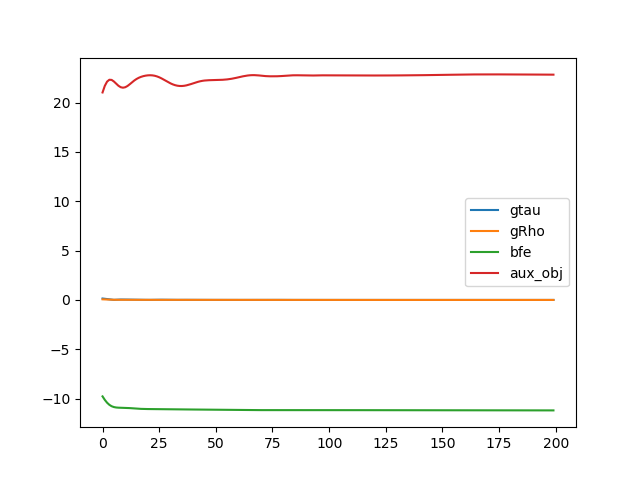
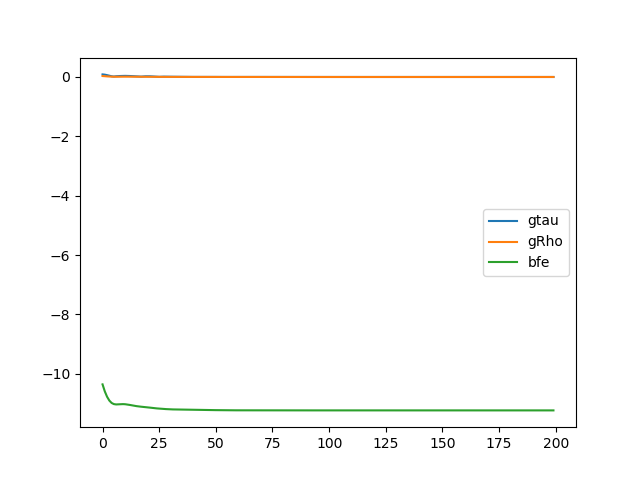
no longer plot aux_obj (not informative, since it's not really a true objective function (just a tf expression whose gradient should approximate the bfe's) which can increase/decrease); increasing K in discrete_mln_test seems to get answers that better match EPBP; lowering lr in hybrid_mln_test seem

diff --git a/osi/OneShot.py b/osi/OneShot.py
@@ -20,7 +20,7 @@ class OneShot:
 
     def __init__(self, g, K, T, seed=None):
         """
-        Define symbolic BFE and auxiliary objective for tensorflow, given a factor graph.
+        Define symbolic BFE and auxiliary objective expression to be optimized by tensorflow, given a factor graph.
         We'll use the one default tensorflow computation graph; to make sure we don't redefine it, everytime it'll
         be cleared/reset whenever a new instance of OneShot is created.
         :param g: a grounded graph corresponding to a plain old MLN; its factors must have .log_potential_fun callable
@@ -143,7 +143,7 @@ class OneShot:
         grads_update = optimizer.apply_gradients(grads_and_vars)
 
         vnames = ['g' + v.name.split(':')[0] for v in trainable_params]
-        record = {n: [] for n in vnames + ['bfe', 'aux_obj']}
+        record = {n: [] for n in vnames + ['bfe']}
 
         if not tf_session:
             sess = tf.Session()  # session configs maybe
@@ -152,7 +152,7 @@ class OneShot:
 
         sess.run(tf.global_variables_initializer())
         for it in range(its):
-            bfe_, aux_obj_, grads_and_vars_, _ = sess.run([bfe, aux_obj, grads_and_vars, grads_update])
+            bfe_, grads_and_vars_, _ = sess.run([bfe, grads_and_vars, grads_update])
             sess.run(clip_op)  # does nothing if no cont nodes
             avg_grads = []
             for i in range(len(grads_and_vars_)):
@@ -162,7 +162,6 @@ class OneShot:
                 avg_grads.append(np.mean(np.abs(grad)))
             it_record = dict(zip(vnames, avg_grads))
             it_record['bfe'] = bfe_
-            it_record['aux_obj'] = aux_obj_
             it_record['t'] = it
             for key in sorted(it_record.keys()):
                 print('%s: %g, ' % (key, it_record[key]), end='')

diff --git a/osi/hybrid_mln_test_1.py b/osi/hybrid_mln_test_1.py
@@ -61,7 +61,7 @@ from OneShot import OneShot
 K = 3
 T = 8
 osi = OneShot(g=g, K=K, T=T, seed=seed)
-res = osi.run(lr=5e-2, its=200)
+res = osi.run(lr=1e-2, its=600)
 for key, rv in rvs_table.items():
     if rv.value is None:  # only test non-evidence nodes
         print(key, osi.map(rv))

diff --git a/EPBPLogVersion.py b/EPBPLogVersion.py
@@ -357,7 +357,7 @@ class EPBP:
                 p = dict()
                 for x in self.sample[rv]:
                     p[x] = self.belief_rv(x, rv, self.sample)
-
+                # print(p)
                 res = max(p.keys(), key=(lambda k: p[k]))
 
             return res

diff --git a/osi/discrete_mln_test_1.py b/osi/discrete_mln_test_1.py
@@ -59,7 +59,7 @@ print(rvs_table)
 
 from OneShot import OneShot
 
-K = 3
+K = 4
 T = 8
 osi = OneShot(g=g, K=K, T=T, seed=seed)
 res = osi.run(lr=1e-1, its=200)
